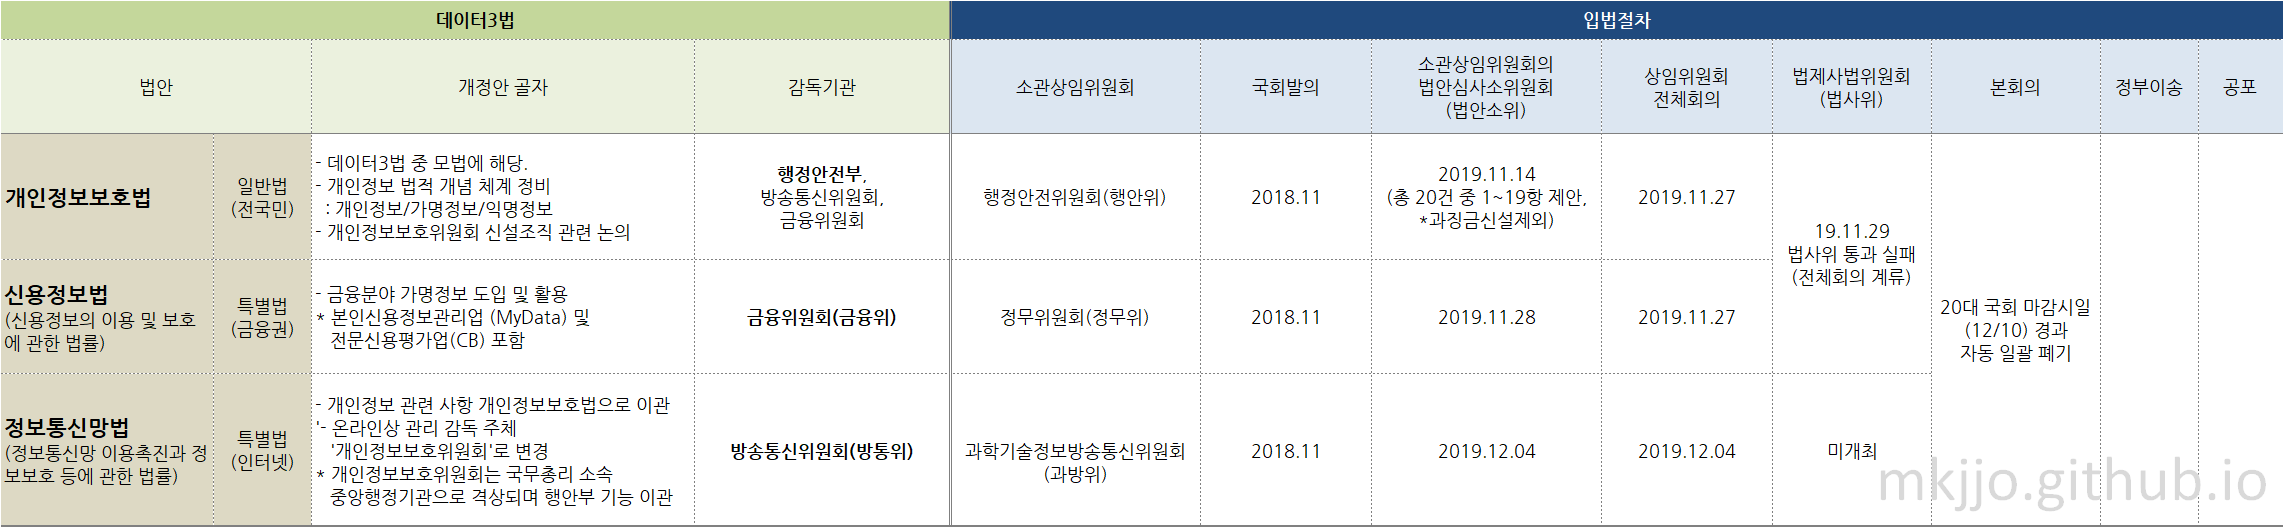
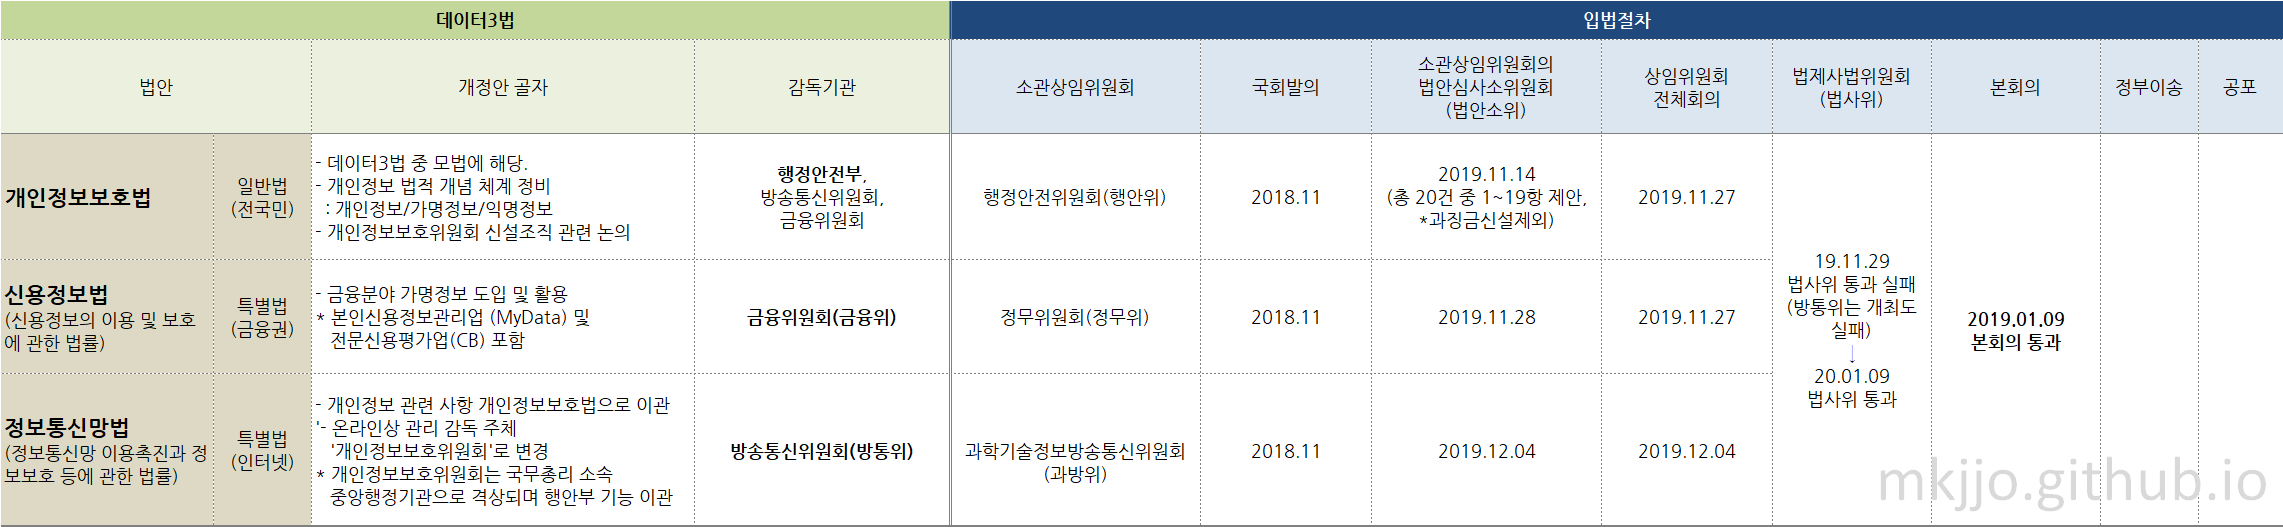
데이터3법수정

Changed region(s): [[0.7775, 0.425, 0.933, 0.6983], [0.7775, 0.6983, 0.8397, 0.7894], [0.8086, 0.8501, 0.8397, 0.8805]]

diff --git a/_posts/2019-12-15-data_law.md b/_posts/2019-12-15-data_law.md
@@ -11,16 +11,18 @@ categories : [Trend]
 tags: [핀테크]
 ---
 
+* 2019.12.15 개시글을 update하여 게시합니다.(수정일 20.01.13)
 
-20대 정기국회가 12월 10일 종료되었다.
-이번에도 수많은 중대사안들이 있었지만 핀테크를 포함한 전 금융사의 관심은 `데이터3법`에 있었다.
 
-하지만 결론은, 법사위 통과 실패.
-올해도 개인정보보호법 정비는 실현되지 못했다.
+2019년 12월 10일 정기국회 종료시, 법사위 통과 실패로 많은 금융업 및 데이터 관련 기업 종사자들의 아쉬움을 샀던 `데이터3법`
 
 데이터 3법이라 불리는 `개인정보보호법/신용정보법/정보통신망법`이란 무엇인지,
 지금까지 해당법에 대한 의안이 나오기까지 어떤 히스토리를 갖고 있는지
 개괄적으로 살펴보았다.
+
+물론 정부기관에서 제공하는 **정책위키** 참고시, 더 정확하고 잘 정리된 자료로 확인 할 수 있다. 아래 내용은 이와 더불어 참고하면 좋을 것이다.
+http://www.korea.kr/special/policyCurationView.do?newsId=148867915
+
 
 <br><br>
 ### 데이터 3법의 개정안 주요내용
